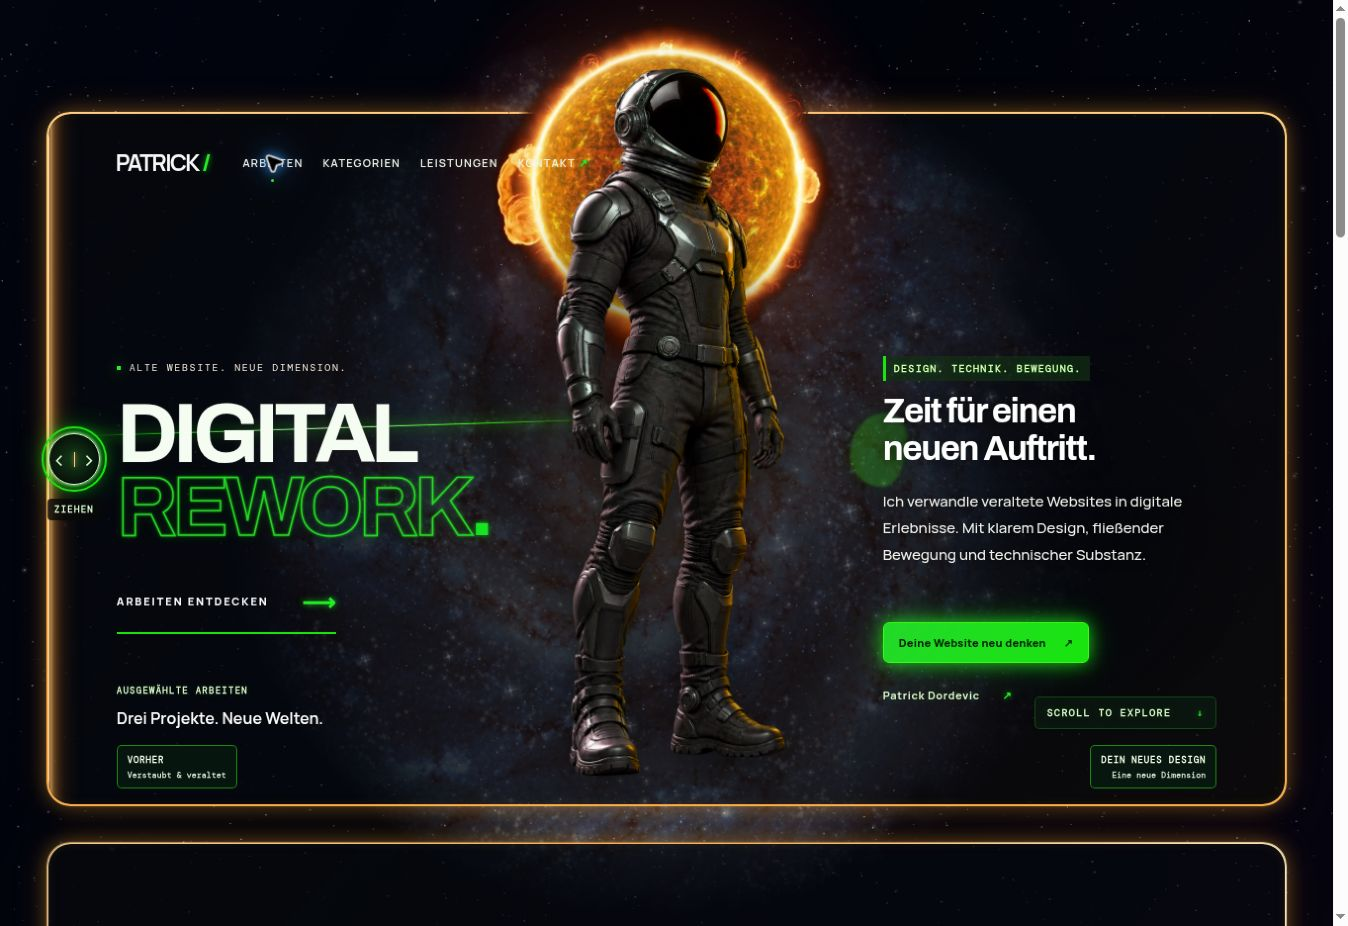
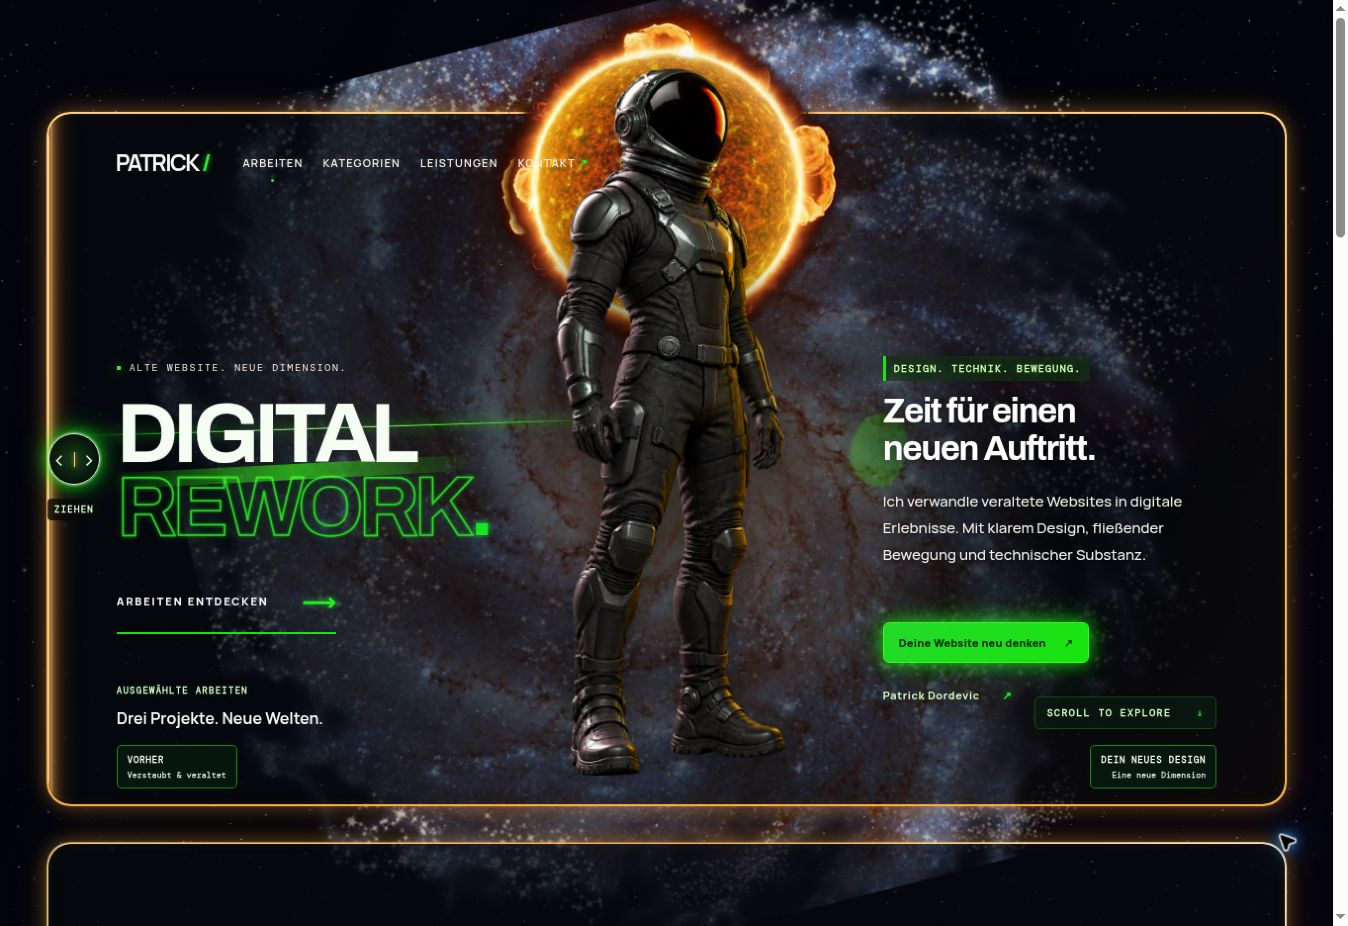
Record original galaxy verification and refresh visual preview

diff --git a/PROJECT_NOTES.md b/PROJECT_NOTES.md
@@ -27,7 +27,7 @@ Alle 18 zusätzlichen Entwicklungscommits sind Vorfahren des neuen Branches
 - Veralteten Posterworkflow ersetzt: CI prüft Dateien und JavaScript, schreibt
   nicht mehr automatisch in den alten Entwicklungsbranch.
 - Galaxie aus Patricks Upload übernommen, Kern zentriert, quadratischer gemeinsamer
-  Rotationscontainer mit Randmaske; feine Sternenebene synchron, Randsterne fest.
+  Rotationscontainer mit eigener PNG-Transparenz; feine Sternenebene synchron, Randsterne fest.
 - DIGITAL ohne flächigen Lichtfleck, REWORK mit enger grüner Laserkontur;
   Laserfarben verbindlich dokumentiert, Orange für Sonne und Rahmen erhalten.
 - Vergleich ohne veraltetes verstecktes Flammen-SVG; ein CSS-Lichtstrahl über die
@@ -48,7 +48,8 @@ Galaxie.png und 2Galaxie.png sind bytegenau identisch:
 SHA-256 e20e283c53c12e16c9cf066f1212e26897fc6d782303f68083748ea3e8189436.
 Die Grafik hat 287982 völlig transparente Pixel und weiche Alphakanalübergänge.
 Ihr helles Zentrum liegt rechts der Bildmitte; CSS positioniert es bei der
-Drehachse. Die äußeren Ausschnittkanten werden per kreisförmiger Maske überblendet.
+Drehachse. Eine frühere kreisförmige Maske wurde nach Patricks Rückmeldung entfernt;
+die Transparenz stammt ausschließlich aus seiner PNG.
 NASA/ESA- und weitere ursprüngliche Bildnachweise bleiben auf der Website.
 
 ## Projektlinks (unverändert)
@@ -135,4 +136,8 @@ zusätzliche helle Schleier. Das Original heißt jetzt ausdrücklich 2Galaxie.pn
 Die PNG verwendet ihre eigene Transparenz bei Deckkraft 1. Der separate
 synchron rotierende Sternenfilm bleibt mit 20 % Deckkraft dezent erhalten;
 feste Sterne, Sonne und übriger Seiteninhalt bleiben unverändert.
-Browserprüfung der neuen Darstellung folgt.
+Desktop und mobiler CSS-Viewport wurden geprüft: Geladen wird ausdrücklich
+assets/images/2Galaxie.png mit 1280×1001 Pixeln, opacity=1, filter=none und
+mask-image=none auf Bild sowie Rotationscontainer. Die äußeren Sternenbereiche
+sind in der Vorschau sichtbar. Das Original wird auch unter der direkten
+Asset-URL ausgeliefert. Sonne, Medien und sonstige Interaktionen sind unverändert.
